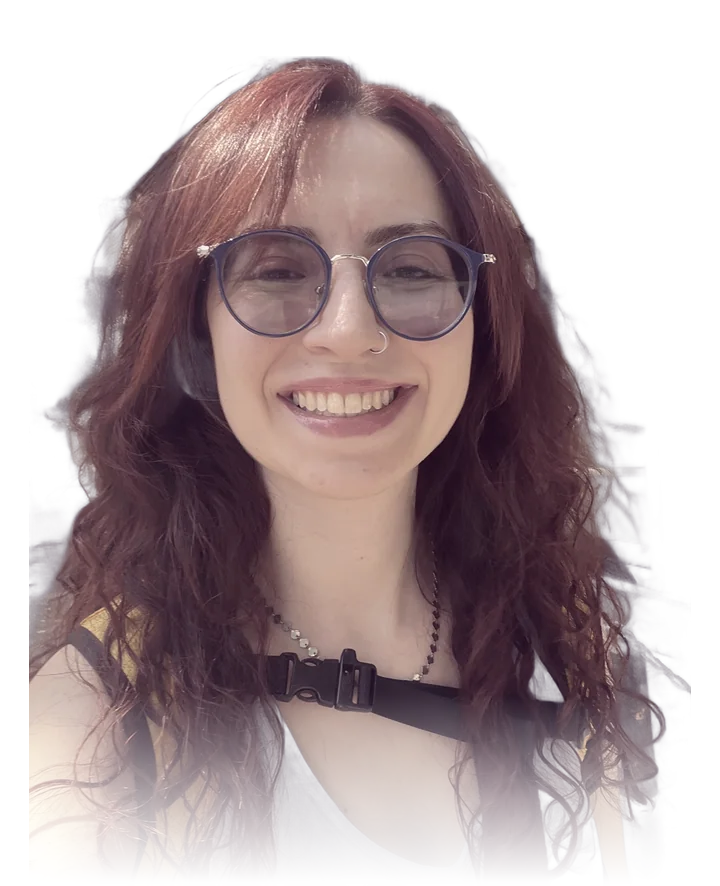
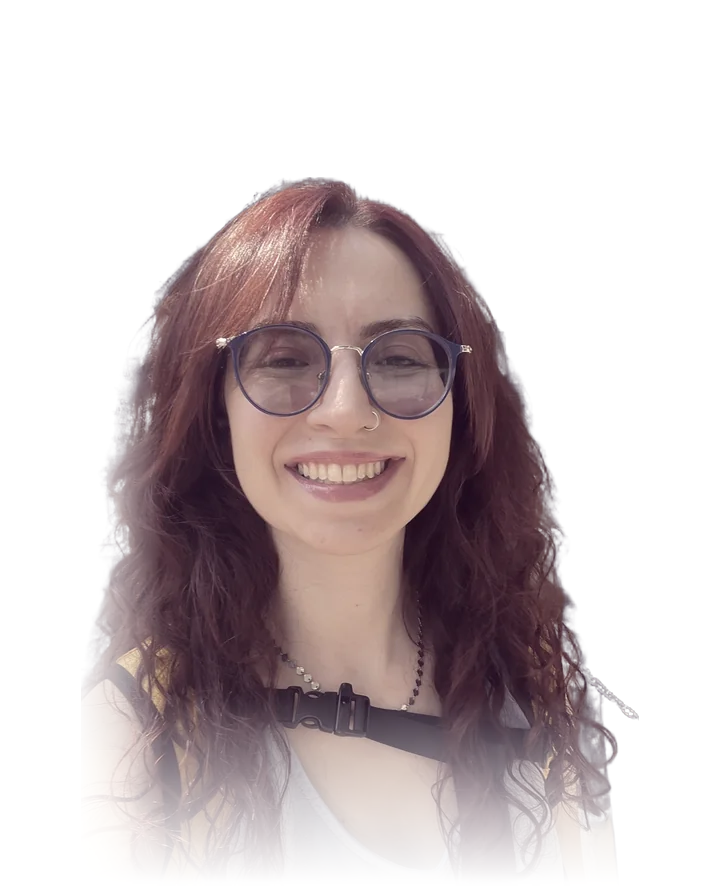
Clean up portrait looks and keep text off photos
- Remove the curly-hair look and renumber the release notes
- Re-cut the remaining looks with a hair-detail model, fade edges where the photo frame cut the hair, and make them smaller
- Up to 1100px the hero cards sit below the portrait instead of on top of it
- Beyond code captions now sit under the photos instead of covering them

Claude-Session: https://claude.ai/code/session_01BxMskhnYZWpZVc67gsqTDW

diff --git a/styles.css b/styles.css
@@ -3123,6 +3123,16 @@ button.pt-task:focus-visible {
 
 /* ---------- personal: portrait releases ---------- */
 
+.hero-photo {
+  position: absolute;
+  inset: 0;
+}
+
+/* A slightly smaller portrait keeps the floating cards on its edges, away from the face. */
+.portrait-stack .portrait {
+  width: 74%;
+}
+
 .portrait-stack {
   position: absolute;
   inset: 0;
@@ -3259,17 +3269,27 @@ button.pt-task:focus-visible {
 
 .photo-stack {
   position: relative;
+  display: flex;
+  flex-direction: column;
   margin: -22px -22px 18px;
-  aspect-ratio: 4 / 3;
-  overflow: hidden;
-  background: var(--plum-800);
   cursor: pointer;
 }
 
+.photo-frame {
+  position: relative;
+  aspect-ratio: 4 / 3;
+  overflow: hidden;
+  background: var(--plum-800);
+}
+
 .beyond-card-wide .photo-stack {
-  aspect-ratio: auto;
-  min-height: 340px;
   margin: -22px 0 -22px -22px;
+}
+
+.beyond-card-wide .photo-frame {
+  flex: 1;
+  aspect-ratio: auto;
+  min-height: 320px;
 }
 
 .photo-stack img {
@@ -3289,16 +3309,14 @@ button.pt-task:focus-visible {
 }
 
 .photo-caption {
-  position: absolute;
-  right: 12px;
-  bottom: 12px;
-  left: 12px;
-  padding: 7px 11px;
-  border: 1px solid var(--glass-border);
-  border-radius: 10px;
-  background: rgba(25, 0, 25, 0.82);
+  min-height: 3.4em;
+  padding: 10px 14px;
+  border-bottom: 1px solid var(--glass-border);
+  background: rgba(25, 0, 25, 0.55);
   color: var(--cream-100);
-  font-size: 0.74rem;
+  font-family: var(--font-serif);
+  font-size: 0.86rem;
+  font-style: italic;
   line-height: 1.4;
 }
 
@@ -3945,9 +3963,12 @@ body.game-active .bruno-toggle {
   }
 
   .beyond-card-wide .photo-stack {
+    margin: -22px -22px 18px;
+  }
+
+  .beyond-card-wide .photo-frame {
     aspect-ratio: 4 / 3;
     min-height: 0;
-    margin: -22px -22px 18px;
   }
 }
 
@@ -3960,14 +3981,6 @@ body.game-active .bruno-toggle {
     grid-column: auto;
   }
 
-  /* The focus card is hidden on phones, so release notes take its corner, clear of the face. */
-  .card-release {
-    top: auto;
-    right: 0;
-    bottom: 4%;
-    width: 150px;
-  }
-
   .release-note {
     font-size: 0.74rem;
   }
@@ -3975,5 +3988,47 @@ body.game-active .bruno-toggle {
   .bruno-toggle {
     right: 14px;
     bottom: 14px;
+  }
+}
+
+/* ---------- personal: hero cards below the photo on small screens ---------- */
+
+@media (max-width: 1100px) {
+  .hero-visual {
+    display: grid;
+    grid-template-columns: repeat(2, minmax(0, 1fr));
+    gap: 12px;
+    aspect-ratio: auto;
+  }
+
+  .hero-photo {
+    position: relative;
+    grid-column: 1 / -1;
+    aspect-ratio: 1 / 1.02;
+  }
+
+  .portrait-stack .portrait {
+    width: 82%;
+  }
+
+  .hero-visual .float-card {
+    position: static;
+    width: auto;
+    animation: none;
+  }
+
+  .hero-visual .card-focus {
+    display: block;
+    grid-column: 1 / -1;
+  }
+
+  .card-focus .bullet-list {
+    display: grid;
+    grid-template-columns: repeat(2, minmax(0, 1fr));
+    gap: 4px 16px;
+  }
+
+  .card-focus .bullet-list li + li {
+    margin-top: 0;
   }
 }

diff --git a/content.js b/content.js
@@ -955,8 +955,7 @@ const brunoLines = {
 const portraitLooks = [
   { src: "assets/portrait.webp", version: "v1.0", alt: { en: "Bilge in a blue cardigan and sunglasses", it: "Bilge con un cardigan azzurro e occhiali da sole" }, note: { en: "The original release.", it: "La versione originale." } },
   { src: "assets/looks/look-office.webp", version: "v1.1", alt: { en: "Bilge in a white office shirt making heart hands", it: "Bilge con una camicia bianca che fa un cuore con le mani" }, note: { en: "Office mode: shirt ironed, bugs not.", it: "Modalità ufficio: camicia stirata, bug no." } },
-  { src: "assets/looks/look-curly.webp", version: "v2.0", alt: { en: "Bilge with big curly hair and round glasses", it: "Bilge con grandi ricci e occhiali tondi" }, note: { en: "Curly mode enabled. Humidity is a feature.", it: "Modalità ricci attivata. L'umidità è una feature." } },
-  { src: "assets/looks/look-sunglasses.webp", version: "v2.1", alt: { en: "Bilge with long red hair and sunglasses", it: "Bilge con lunghi capelli rossi e occhiali da sole" }, note: { en: "Dark mode, now on my face too.", it: "Dark mode, ora anche sulla mia faccia." } },
+  { src: "assets/looks/look-sunglasses.webp", version: "v2.0", alt: { en: "Bilge with long red hair and sunglasses", it: "Bilge con lunghi capelli rossi e occhiali da sole" }, note: { en: "Dark mode, now on my face too.", it: "Dark mode, ora anche sulla mia faccia." } },
   { src: "assets/looks/look-round.webp", version: "v3.0", alt: { en: "Bilge smiling with new round glasses", it: "Bilge sorridente con nuovi occhiali tondi" }, note: { en: "New frames, same bugs.", it: "Montatura nuova, stessi bug." } },
   { src: "assets/looks/look-bruno.webp", version: "v4.0", alt: { en: "Bilge holding Bruno with a surprised face", it: "Bilge con Bruno in braccio e una faccia sorpresa" }, note: { en: "Breaking change: Bruno merged into main.", it: "Breaking change: Bruno è entrato in main." } }
 ];

diff --git a/index.html b/index.html
@@ -92,11 +92,14 @@
         </div>
 
         <div class="hero-visual">
-          <div class="moon" aria-hidden="true"></div>
-          <div class="orbit" aria-hidden="true"></div>
-          <!-- Portrait "releases": simulations.js swaps in the other looks from portraitLooks. -->
-          <div class="portrait-stack" data-portrait-stack>
-            <img class="portrait is-current" src="assets/portrait.webp" width="720" height="886" alt="Portrait of Bilge Ozcanbaz" data-i18n-attr="alt:hero.portraitAlt" />
+          <!-- On small screens the cards move below this photo so nothing covers it. -->
+          <div class="hero-photo">
+            <div class="moon" aria-hidden="true"></div>
+            <div class="orbit" aria-hidden="true"></div>
+            <!-- Portrait "releases": simulations.js swaps in the other looks from portraitLooks. -->
+            <div class="portrait-stack" data-portrait-stack>
+              <img class="portrait is-current" src="assets/portrait.webp" width="720" height="886" alt="Portrait of Bilge Ozcanbaz" data-i18n-attr="alt:hero.portraitAlt" />
+            </div>
           </div>
           <div class="glass-card float-card card-experience">
             <p class="card-label" data-i18n="hero.cardExperienceLabel">Experience</p>

diff --git a/script.js b/script.js
@@ -249,18 +249,22 @@ function renderProcess() {
   );
 }
 
-// A stack of photos with a caption; simulations.js cycles through them on hover.
+// A stack of photos with the caption underneath, never on the photo; simulations.js shows the next one on hover.
 function photoStack(photos) {
   return el("figure", { className: "photo-stack", "data-photo-stack": "" }, [
-    ...photos.map((photo, index) =>
-      el("img", {
-        className: index === 0 ? "is-current" : "",
-        src: photo.src,
-        alt: localize(photo.caption),
-        loading: "lazy",
-        decoding: "async",
-        style: `object-position: ${photo.position}`
-      })
+    el(
+      "div",
+      { className: "photo-frame" },
+      photos.map((photo, index) =>
+        el("img", {
+          className: index === 0 ? "is-current" : "",
+          src: photo.src,
+          alt: localize(photo.caption),
+          loading: "lazy",
+          decoding: "async",
+          style: `object-position: ${photo.position}`
+        })
+      )
     ),
     el("figcaption", { className: "photo-caption", "aria-live": "polite", text: localize(photos[0].caption) })
   ]);

diff --git a/docs/content-notes.md b/docs/content-notes.md
@@ -28,5 +28,7 @@ Source of truth for facts on the site: the September 2026 CV (EN/IT).
 
 - Source: Bilge's Google Drive folder "Portfolio photos". Bruno and cooking photos are in `assets/beyond/`, portrait looks in `assets/looks/`.
 - Every photo is re-encoded without metadata (no GPS), resized for the web, and screens showing code are blurred.
+- Portrait looks are cut out with a hair-detail model and kept small enough that no card or text covers the face; on screens up to 1100px the hero cards sit below the photo. Captions sit under photos, never on them.
+- Removed on request: the curly-hair look.
 - Never use photos with other people, swimwear, party or alcohol shots, or anything showing work code, home address or documents.
 - Missing: no climbing, crochet or card-collection photos yet — those cards keep their illustrated demos until photos arrive.
